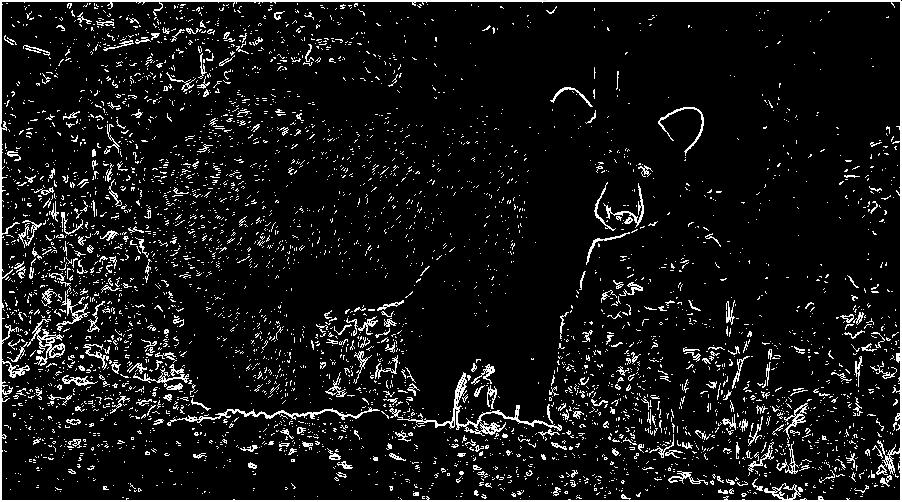
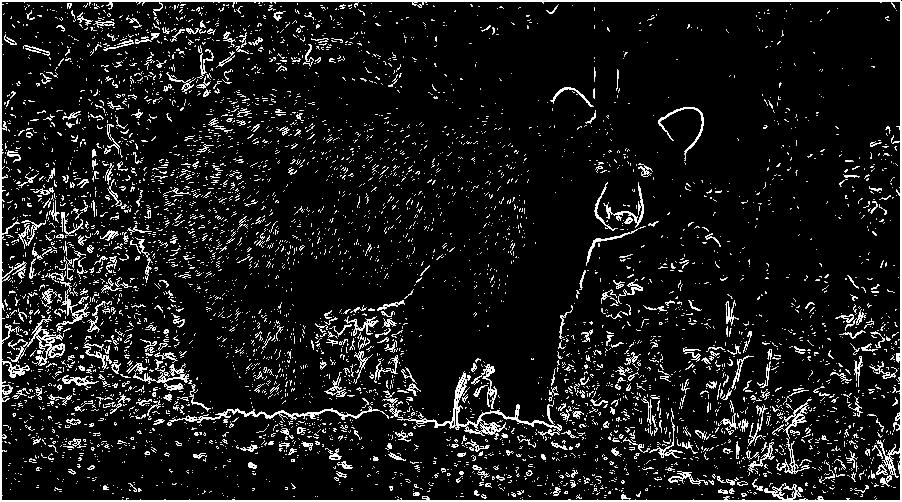
upsampling added and cleanup

diff --git a/lab2/contrast.py b/lab2/contrast.py
@@ -6,11 +6,13 @@ import sys
 
 pilim = Image.open(sys.argv[1])
 pilim = pilim.convert('L')  # convert to monochrome
-imdat = np.asarray(pilim, np.float) # put PIL image into numpy array of floats
+imdat = np.asarray(pilim, np.float)  # put PIL image into numpy array of floats
+
+filename_out = sys.argv[2]
 
 histogram = np.zeros(256)
 
-for intensity in range(0,255):
+for intensity in range(0, 255):
     histogram[intensity] = (imdat == intensity).sum()
 
 plt.plot(histogram)
@@ -23,29 +25,38 @@ S = histogram[1:255].sum()
 P = S / 254
 
 remap = np.zeros(256)
-remap[0] = histogram[0]
-remap[255] = histogram[255]
-
 T = P
 curr_sum = 0
 out_val = 1
 last_idx = 1
 
-
-# this loop creates remap array and remaps pixels of image
-for intensity in range(1,255):
+# this loop creates remap array
+for intensity in range(1, 255):
     curr_sum = curr_sum + histogram[intensity]
-    remap[intensity] = out_val
-    imdat[np.where(imdat == intensity)] = out_val
     if curr_sum > T:
+        remap[last_idx:intensity] = out_val
         out_val = round(curr_sum / P)
         T = out_val * P
+        last_idx = intensity
 
-plt.plot(remap)
+remap[remap == 0] = 254 # values that are missed when final target isn't hit
+remap[0] = 0
+remap[255] = 255
+
+# change intensity values in image to remapped values
+for intensity in range(0, 256):
+    print("setting " + str(intensity) + " to " + str(remap[intensity]))
+    imdat[imdat == intensity] = remap[intensity]
+
+# create new histogram
+for intensity in range(0, 256):
+    histogram[intensity] = (imdat == intensity).sum()
+
+plt.plot(histogram)
 plt.xlabel('Intensity')
 plt.ylabel('Number of Pixels')
 plt.title('Remapped Histogram')
 plt.show()
 
-Image.fromarray(imdat).convert('L').save('test_img_contrast1.jpg')
+Image.fromarray(imdat).convert('L').save(filename_out)
 Image.fromarray(imdat).show()

diff --git a/lab2/upsample.py b/lab2/upsample.py
@@ -6,14 +6,46 @@ from scipy.interpolate import RectBivariateSpline
 
 #######################################
 # example bi-linear interpolation
-x = np.asarray([1, 2], np.int)
-y = np.asarray([5, 6], np.int)
+# x = np.asarray([1, 2], np.int)
+# y = np.asarray([5, 6], np.int)
 
-z = np.asarray([[50, 100], [200, 300]], np.float)
+# z = np.asarray([[50, 100], [200, 300]], np.float)
 
-interp_spline = RectBivariateSpline(y, x, z, kx=1, ky=1)
+# interp_spline = RectBivariateSpline(y, x, z, kx=1, ky=1)
 
-x1 = np.linspace(1, 2, 3)
-y1 = np.linspace(5, 6, 3)
-ivals = interp_spline(y1, x1)
+# x1 = np.linspace(1, 2, 3)
+# y1 = np.linspace(5, 6, 3)
+# ivals = interp_spline(y1, x1)
 #######################################
+
+pilim = Image.open(sys.argv[1])
+pilim = pilim.convert('L')  # convert to monochrome
+imdat = np.asarray(pilim, np.float) # put PIL image into numpy array of floats
+
+out_filename = sys.argv[2]
+N = int(sys.argv[3])
+
+R, C = imdat.shape
+print(f"Original Image size: Rows={R}, Cols={C}")
+
+img_up = np.zeros((int(R*N), int(C*N)))
+
+# nested for loops over the smaller img
+#TODO: this is very slow, make it better
+for i in range(R - 1):
+    for j in range(C - 1):
+        x = np.array([i, i+1])
+        y = np.array([j, j+1])
+        z = imdat[i:i+2, j:j+2]
+
+        interp_spline = RectBivariateSpline(y, x, z, kx=1, ky=1)
+        x1 = np.linspace(i, i+1, N+1)
+        y1 = np.linspace(j, j+1, N+1)
+        ivals = interp_spline(y1, x1)
+        img_up[i*N:i*N+(N+1), j*N:j*N+(N+1)] = ivals
+
+dR, dC = img_up.shape
+print(f"Upsampled size: Rows={dR}, Cols={dC}")
+
+Image.fromarray(img_up).convert('L').save(out_filename)
+Image.fromarray(img_up).show()

diff --git a/lab2/grayscale.py b/lab2/grayscale.py
@@ -1,5 +1,6 @@
 import numpy as np
 from PIL import Image
+import sys
 
 Y = np.array([.299, .587, .114])
 
@@ -7,15 +8,14 @@ Y = np.array([.299, .587, .114])
 def grayscale(img):
     return np.clip(np.dot(img[:,:,:3], Y), 0, 255)
 
-pil_image_in = Image.open('test01.jpg')
+pil_image_in = Image.open(sys.argv[1])
 image_in = np.asarray(pil_image_in, np.uint8)
+filename_out = sys.argv[2]
 
 image_out = grayscale(image_in)
 
 # Output the image to a file
-# getting error 'cannot write mode F as JPEG', convert('L') fixes it
-# fix this without using convert('L') because thats cheating.
-Image.fromarray(image_out).convert('L').save('test_img_out1.jpg')
+Image.fromarray(image_out.astype(np.uint8)).save(filename_out)
 
 # view the image
 Image.fromarray(image_out).show()

diff --git a/lab2/diff.py b/lab2/diff.py
@@ -1,0 +1,21 @@
+import numpy as np
+from PIL import Image
+import matplotlib.pyplot as plt
+import sys
+
+UPFACTOR = 2    # increase visibility of difference
+
+pilim1 = Image.open(sys.argv[1]).convert('L')
+pilim2 = Image.open(sys.argv[2]).convert('L')
+filename_out = sys.argv[3]
+
+imdat1 = np.asarray(pilim1, np.float) # put PIL image into numpy array of floats
+imdat2 = np.asarray(pilim2, np.float)
+
+if imdat1.shape != imdat2.shape:
+    print("Image dimensions not equivalent")
+
+diff = np.clip(np.abs(imdat1 - imdat2) * UPFACTOR, 0, 255)
+
+Image.fromarray(diff).convert('L').save(filename_out)
+Image.fromarray(diff).show()

diff --git a/lab2/edge_detection.py b/lab2/edge_detection.py
@@ -23,10 +23,9 @@ grad_y = signal.convolve2d(imdat, kernel_y)
 
 edge = np.sqrt(grad_x**2 + grad_y**2)
 
-#TODO: how to implement threshold?
-threshold = 220
-threshold_idx = np.where(edge < threshold)
-edge[threshold_idx] = 0
+#TODO: Better way to implement threshold?
+threshold = 200
+edge[edge < threshold] = 0
 
 Image.fromarray(edge).convert('L').save(out_filename)
 Image.fromarray(edge).show()
